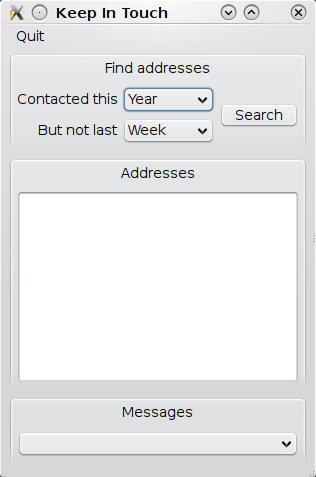
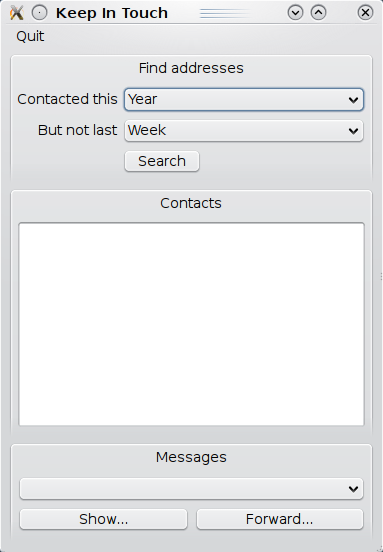
Use Contacts API to resolve addresses.

diff --git a/examples/keepintouch/addressfinder.cpp b/examples/keepintouch/addressfinder.cpp
@@ -40,7 +40,14 @@
 ****************************************************************************/
 
 #include "addressfinder.h"
-#include <qmessageaddress.h>
+
+#include <qcontactdetailfilter.h>
+#include <qcontactemailaddress.h>
+#include <qcontactmanager.h>
+#include <qcontactphonenumber.h>
+#include <qmessage.h>
+#include <qmessageserviceaction.h>
+
 #include <QComboBox>
 #include <QDateTime>
 #include <QGroupBox>
@@ -56,7 +63,7 @@
 
 namespace {
 
-QString simpleEmailAddress(const QString &recipient)
+QString simpleAddress(const QString &recipient)
 {
     QString name;
     QString addressOnly;
@@ -66,10 +73,41 @@ QString simpleEmailAddress(const QString &recipient)
     return addressOnly;
 }
 
-QString simpleEmailAddress(const QMessageAddress &address)
+QString simpleAddress(const QMessageAddress &address)
 {
-    return simpleEmailAddress(address.recipient());
+    return simpleAddress(address.recipient());
 }
+
+//! [contact-lookup]
+QString contactDisplayName(const QMessageAddress &address)
+{
+    QString addressOnly(simpleAddress(address));
+
+    // See if we can match this address to a contact
+    QContactDetailFilter filter;
+    if (address.type() == QMessageAddress::Email) {
+        // Match contacts on email address data
+        filter.setDetailDefinitionName(QContactEmailAddress::DefinitionName);
+        filter.setValue(addressOnly);
+        filter.setMatchFlags(QContactFilter::MatchContains);
+    } else if (address.type() == QMessageAddress::Phone) {
+        // Match contacts on phone number data
+        filter.setDetailDefinitionName(QContactPhoneNumber::DefinitionName);
+        filter.setValue(addressOnly);
+        filter.setMatchFlags(QContactFilter::MatchPhoneNumber);
+    }
+
+    QContactManager manager;
+    foreach (const QContactLocalId &contactId, manager.contacts(filter)) {
+        // Any match is acceptable
+        const QContact &contact(manager.contact(contactId));
+        return contact.displayLabel();
+    }
+
+    // We couldn't match anything, so return the original address
+    return address.recipient();
+}
+//! [contact-lookup]
 
 }
 
@@ -80,7 +118,7 @@ AddressFinder::AddressFinder(QWidget *parent, Qt::WindowFlags flags)
       excludePeriod(0),
       searchAction(0),
       searchButton(0),
-      addressList(0),
+      contactList(0),
       messageCombo(0)
  {
     setupUi();
@@ -115,7 +153,7 @@ void AddressFinder::addressSelected(const QString &address)
 {
     messageCombo->clear();
 
-    QString addressOnly(simpleEmailAddress(address));
+    QString addressOnly(simpleAddress(address));
 
     // Add the subject of each message to this address to the message pane
     typedef QPair<QString, QMessageId> MessageDetails;
@@ -129,9 +167,10 @@ void AddressFinder::searchMessages()
 {
     setSearchActionEnabled(false);
 
-    addressList->clear();
+    contactList->clear();
     messageCombo->clear();
     excludedAddresses.clear();
+    addressList.clear();
     addressMessages.clear();
 
 //! [create-date-range]
@@ -242,7 +281,7 @@ void AddressFinder::continueSearch()
 
         // All recipient addresses are to be excluded
         foreach (const QMessageAddress &address, message.to() + message.cc() + message.bcc()) {
-            excludedAddresses.insert(simpleEmailAddress(address));
+            excludedAddresses.insert(simpleAddress(address));
         }
     } else if (!inclusionMessages.isEmpty()) {
         // Take the first message to inspect for suitable addresses
@@ -253,15 +292,17 @@ void AddressFinder::continueSearch()
 
         // For each recipient of this message
         foreach (const QMessageAddress &address, message.to() + message.cc() + message.bcc()) {
-            QString addressOnly(simpleEmailAddress(address));
+            QString addressOnly(simpleAddress(address));
 
             // Ignore recipients whose addresses we have added to the exclusion set
             if (!excludedAddresses.contains(addressOnly)) {
                 // Link this message to this address
                 QList<QPair<QString, QMessageId> > &messageList(addressMessages[addressOnly]);
                 if (messageList.isEmpty()) {
-                    // Add the recipient to our visible list of addresses to keep in touch with
-                    addressList->addItem(address.recipient());
+                    addressList.append(addressOnly);
+
+                    // Add the recipient to our visible list of contacts to keep in touch with
+                    contactList->addItem(contactDisplayName(address));
                 }
 
                 if (details.isEmpty()) {
@@ -283,9 +324,9 @@ void AddressFinder::continueSearch()
         tabChanged(1);
 #endif
 
-        if (addressList->currentItem()) {
+        if (contactList->currentItem()) {
             // Select the first address automatically
-            addressSelected(addressList->currentItem()->text());
+            addressSelected(contactList->currentItem()->text());
         }
     }
 }
@@ -358,8 +399,8 @@ void AddressFinder::setupUi()
     connect(searchButton, SIGNAL(clicked()), this, SLOT(searchMessages()), Qt::QueuedConnection);
 #endif
 
-    addressList = new QListWidget(this);
-    connect(addressList, SIGNAL(currentTextChanged(QString)), this, SLOT(addressSelected(QString)));
+    contactList = new QListWidget(this);
+    connect(contactList, SIGNAL(currentTextChanged(QString)), this, SLOT(addressSelected(QString)));
 
 #ifndef USE_SEARCH_BUTTON
     QWidget* resultsWidget = new QWidget(this);
@@ -369,10 +410,10 @@ void AddressFinder::setupUi()
     QVBoxLayout* resultsLayout = centralLayout;
 #endif
 
-    QGroupBox *addressGroup = new QGroupBox(tr("Addresses"));
+    QGroupBox *addressGroup = new QGroupBox(tr("Contacts"));
     addressGroup->setAlignment(Qt::AlignLeft);
     addressGroup->setLayout(new QVBoxLayout);
-    addressGroup->layout()->addWidget(addressList);
+    addressGroup->layout()->addWidget(contactList);
     resultsLayout->addWidget(addressGroup);
 
     QGroupBox *messageGroup = new QGroupBox(tr("Messages"));
@@ -434,7 +475,7 @@ void AddressFinder::showMessage()
     int index = messageCombo->currentIndex();
     if (index != -1) {
         // Find the address currently selected
-        QString selectedAddress(simpleEmailAddress(addressList->currentItem()->text()));
+        const QString &selectedAddress(addressList[contactList->currentRow()]);
 
         // Show the message selected
         QMessageId &messageId((addressMessages[selectedAddress])[index].second);
@@ -447,7 +488,7 @@ void AddressFinder::forwardMessage()
     int index = messageCombo->currentIndex();
     if (index != -1) {
         // Find the address currently selected
-        QString selectedAddress(simpleEmailAddress(addressList->currentItem()->text()));
+        const QString &selectedAddress(addressList[contactList->currentRow()]);
 
         // Create a message which forwards the selected message to the same recipient
         QMessageId &messageId((addressMessages[selectedAddress])[index].second);

diff --git a/examples/keepintouch/addressfinder.h b/examples/keepintouch/addressfinder.h
@@ -96,7 +96,7 @@ private:
     QAction *searchAction;
     QPushButton *searchButton;
 
-    QListWidget *addressList;
+    QListWidget *contactList;
     QComboBox *messageCombo;
     QPushButton *showButton;
     QPushButton *forwardButton;
@@ -109,6 +109,8 @@ private:
     QMessageIdList exclusionMessages;
 
     QSet<QString> excludedAddresses;
+    
+    QStringList addressList;
     QMap<QString, QList<QPair<QString, QMessageId> > > addressMessages;
 };
 
